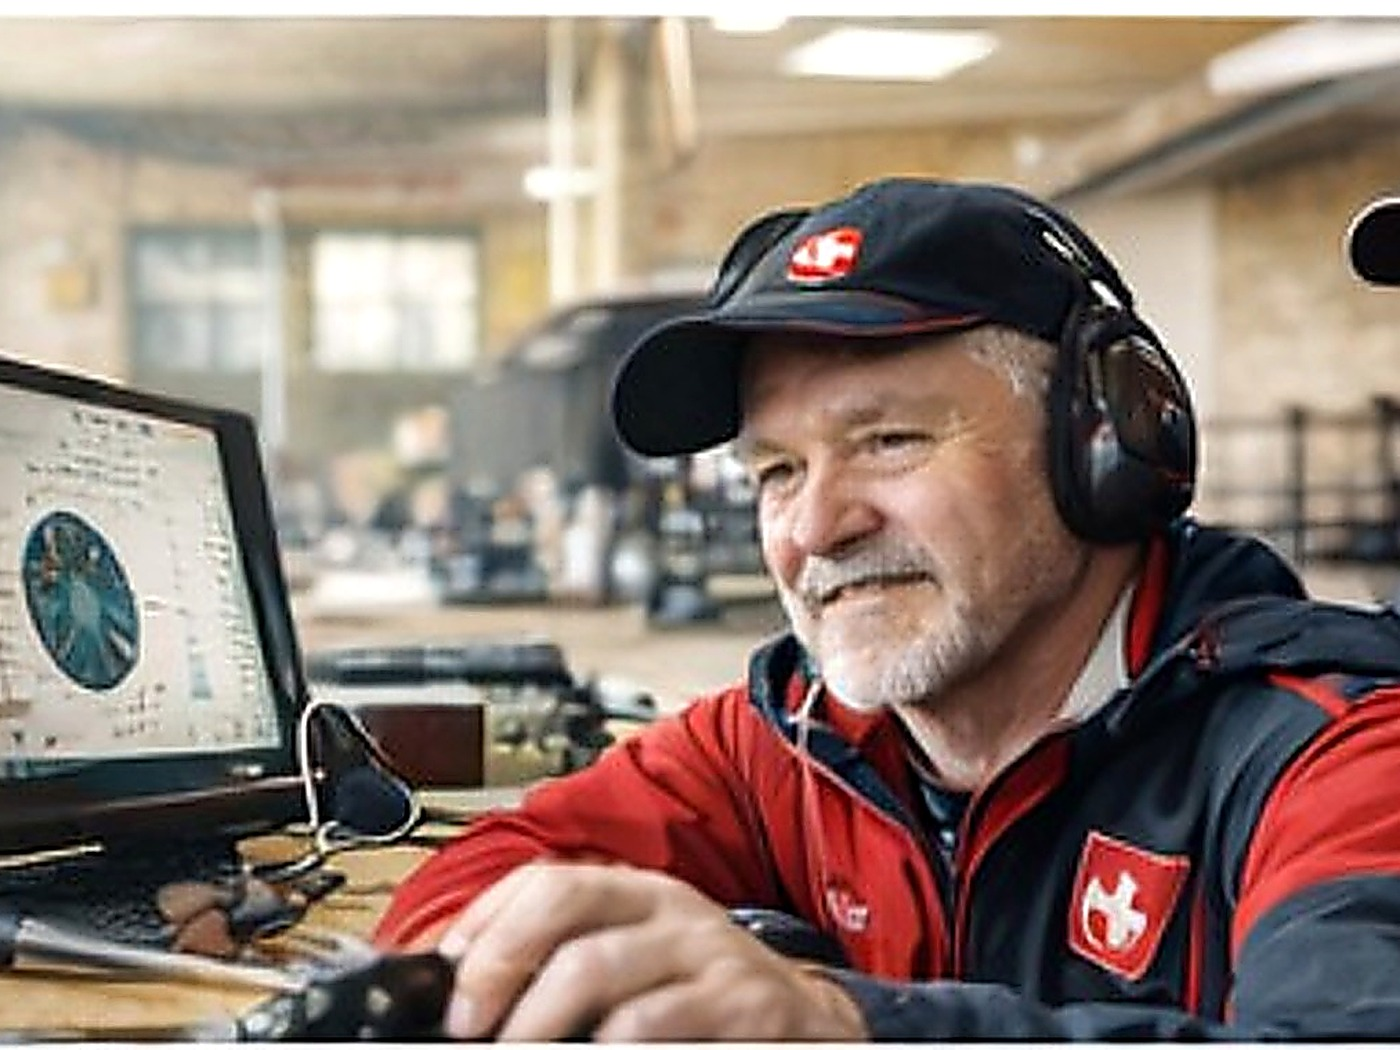
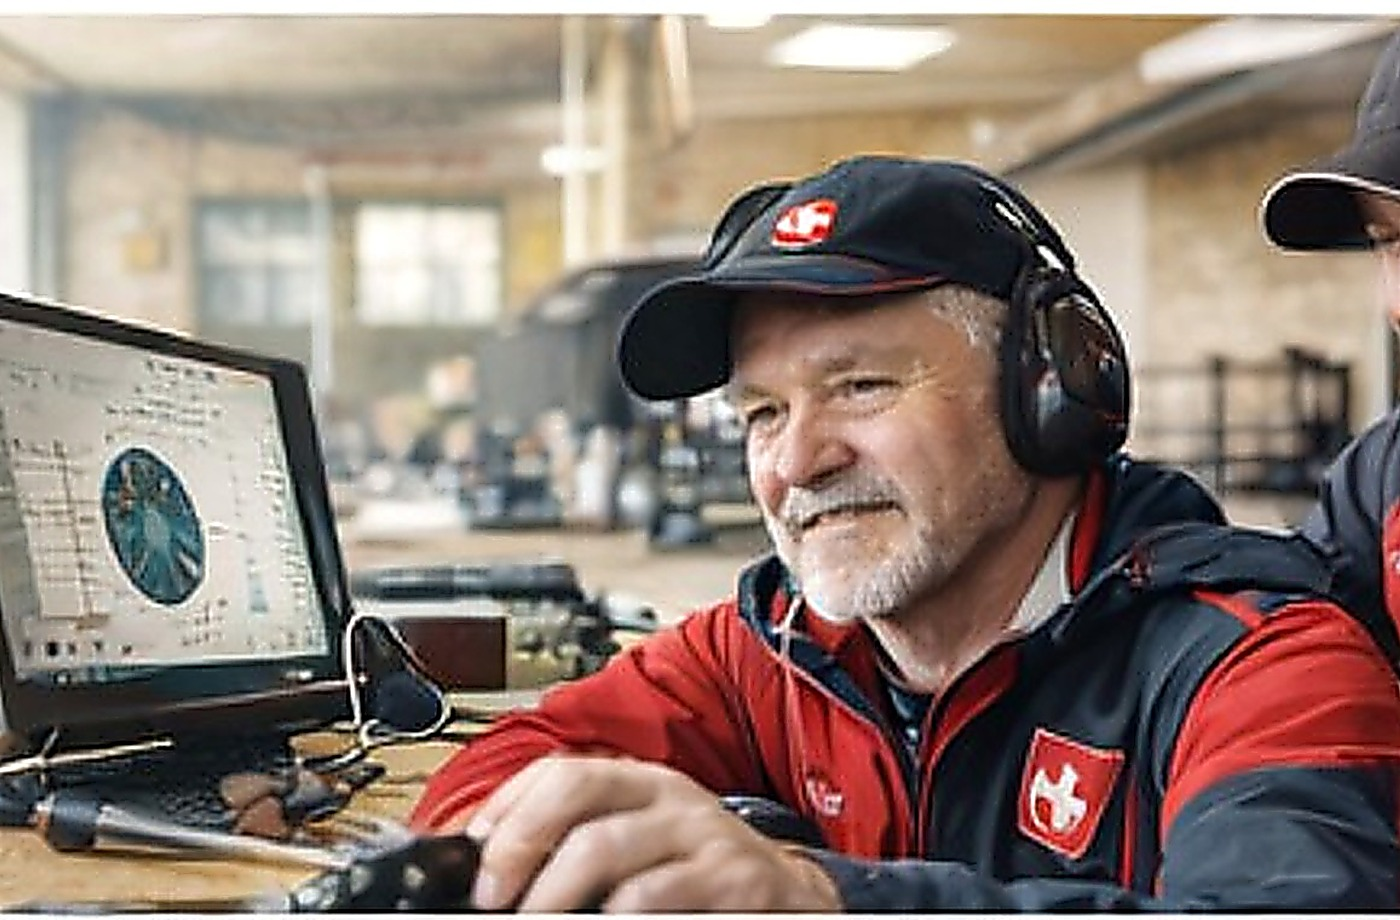
Add files via upload

diff --git a/public/styles.css b/public/styles.css
@@ -72,14 +72,42 @@ a { color: inherit; text-decoration: none; }
 .brand {
   display: inline-flex;
   align-items: center;
-  padding: 13px 22px;
+  gap: 12px;
+  padding: 12px 18px;
   border-radius: 999px;
   background: linear-gradient(180deg, rgba(255,255,255,0.96), rgba(250,247,242,0.95));
   box-shadow: 0 10px 24px rgba(20, 27, 39, 0.08);
-  font-size: 1.04rem;
-  font-weight: 900;
-  letter-spacing: -0.02em;
   white-space: nowrap;
+}
+.brand-complete {
+  min-width: 0;
+}
+.brand-mark {
+  width: 52px;
+  height: 52px;
+  object-fit: contain;
+  flex: 0 0 auto;
+}
+.brand-copy {
+  display: flex;
+  flex-direction: column;
+  min-width: 0;
+}
+.brand-copy strong {
+  font-size: 1.1rem;
+  font-weight: 900;
+  letter-spacing: -0.03em;
+}
+.brand-copy small {
+  margin-top: 2px;
+  color: var(--muted);
+  font-size: 0.78rem;
+  font-weight: 700;
+  letter-spacing: 0.01em;
+}
+.brand-logo img {
+  height: 30px;
+  width: auto;
 }
 .nav-links {
   display: flex;
@@ -127,7 +155,7 @@ a { color: inherit; text-decoration: none; }
 .hero-media {
   height: clamp(620px, 70vw, 820px);
   min-height: 620px;
-  background: url('assets/hero.jpg') center 36% / cover no-repeat;
+  background: url('assets/hero.jpg') center 44% / cover no-repeat;
   position: relative;
 }
 .hero-media::before {
@@ -265,13 +293,12 @@ a { color: inherit; text-decoration: none; }
 }
 .card-image {
   width: 100%;
-  aspect-ratio: 4 / 3;
-  min-height: 300px;
+  height: 320px;
   object-fit: cover;
-  object-position: center center;
+  object-position: center 50%;
   background: #e9e6e1;
 }
-.tall-image { object-position: center 40%; }
+.tall-image { object-position: center 38%; }
 .card-body { padding: 28px; }
 .module-label {
   display: inline-flex;
@@ -345,22 +372,17 @@ a { color: inherit; text-decoration: none; }
 }
 .figure-clean img {
   aspect-ratio: 16 / 10;
-  object-position: center 48%;
+  object-position: center 50%;
 }
 .figure-wide img {
   aspect-ratio: 16 / 9;
-  object-position: center 48%;
-}
-.image-only {
-  overflow: hidden;
-}
-.image-only img {
-  display: block;
+  object-position: center 50%;
 }
 .figure-card figcaption {
   padding: 14px 18px 18px;
   color: var(--muted);
   font-size: 0.96rem;
+  background: rgba(255,255,255,0.9);
 }
 .discipline-grid {
   display: grid;
@@ -512,10 +534,9 @@ a { color: inherit; text-decoration: none; }
   .navbar {
     width: calc(100% - 20px);
     margin-top: 10px;
-    padding: 8px 8px;
   }
   .hero {
-    margin-top: -92px;
+    margin-top: -104px;
   }
   .hero-card-inner {
     width: calc(100% - 20px);
@@ -535,41 +556,24 @@ a { color: inherit; text-decoration: none; }
     gap: 8px;
   }
   .nav-pill { display: none; }
-  .card-image {
-    aspect-ratio: 4 / 3;
-    min-height: 240px;
-  }
-  .figure-clean img,
-  .figure-wide img {
-    aspect-ratio: 4 / 3;
-  }
-  .admin-layout .image-only {
-    order: -1;
-  }
+  .card-image { height: 230px; }
 }
 
 @media (max-width: 560px) {
-  .brand { font-size: 0.92rem; padding: 10px 14px; }
-  .brand-logo img { height: 22px; width: auto; }
+  .brand { font-size: 0.94rem; padding: 11px 16px; }
   .btn, .secondary-btn { width: 100%; }
   .actions { flex-direction: column; }
-  .hero-media { min-height: 500px; }
+  .hero-media { min-height: 520px; }
   .hero-card { bottom: 18px; }
-  .hero h1 { font-size: 2.35rem; }
+  .hero h1 { font-size: 2.5rem; }
   .section-headline h2,
   .split-layout h2,
   .cta-banner h2,
-  .page-hero h1 { font-size: 1.92rem; }
+  .page-hero h1 { font-size: 2rem; }
   .card-body,
   .pricing-shell,
   .price-card,
   .cta-banner { padding: 20px; }
-  .module-card h3 {
-    font-size: 1.78rem;
-  }
-  .card-image {
-    min-height: 250px;
-  }
 }
 
 
@@ -818,71 +822,8 @@ body strong { color: var(--text); }
 .brand-signature { margin-top: 28px; display:flex; justify-content:center; }
 .brand-signature img { width:min(620px, 100%); height:auto; }
 @media (max-width: 560px){ .brand-logo img{ height:34px; } .brand-logo{ padding:10px 14px; } }
-.brand-logo img{height:32px;width:auto;display:block}
-.card-image{width:100%;height:300px;object-fit:cover;object-position:center center;background:#ddd}
-.tall-image{height:300px}
-.figure-card.image-only figcaption{display:none}
-.figure-clean.image-only img,.admin-visual.image-only img{height:100%;width:100%;object-fit:cover;object-position:center}
-.figure-clean{min-height:420px;overflow:hidden}
-.admin-visual{min-height:420px;overflow:hidden}
-.brand-signature img{max-width:min(760px,100%);margin:0 auto}
-@media (max-width: 980px){.card-image,.tall-image{height:260px}.figure-clean,.admin-visual{min-height:320px}}
 
-.customer-grid {
-  display:grid;
-  grid-template-columns: 1.1fr 0.9fr;
-  gap: 20px;
-}
-.form-card {
-  padding: 24px;
-}
-.kunden-form {
-  display:grid;
-  gap: 14px;
-}
-.kunden-form .two-cols {
-  display:grid;
-  grid-template-columns: 1fr 1fr;
-  gap: 14px;
-}
-.kunden-form label {
-  display:grid;
-  gap: 8px;
-}
-.kunden-form input,
-.kunden-form textarea,
-.kunden-form select {
-  width:100%;
-  border-radius: 16px;
-  border: 1px solid rgba(28,35,49,0.12);
-  background: rgba(255,255,255,0.95);
-  padding: 13px 15px;
-  font: inherit;
-  color: var(--text);
-}
-.small-note { color: var(--muted); font-size: 0.92rem; line-height: 1.6; }
-.invoice-list { display:grid; gap: 12px; margin-top: 16px; }
-.invoice-item {
-  display:flex;
-  justify-content:space-between;
-  gap: 16px;
-  padding: 16px 18px;
-  border-radius: 20px;
-  background:white;
-  border: 1px solid var(--line);
-}
-.invoice-meta strong { display:block; margin-bottom: 4px; }
-.invoice-meta span { color: var(--muted); }
-.invoice-action { text-align:right; min-width: 110px; }
-.content-grid {
-  display:grid;
-  grid-template-columns: 1fr 1fr;
-  gap: 18px;
-}
-@media (max-width: 820px) {
-  .customer-grid,
-  .content-grid,
-  .kunden-form .two-cols {
-    grid-template-columns: 1fr;
-  }
+@media (max-width: 980px) {
+  .brand-copy small { display: none; }
+  .brand-mark { width: 42px; height: 42px; }
 }

diff --git a/public/index.html b/public/index.html
@@ -12,7 +12,13 @@
 <body>
   <header class="site-header">
     <nav class="navbar">
-      <a class="brand brand-logo" href="#top"><img src="assets/logo-nav.png" alt="mySwissTarget.ch"></a>
+      <a class="brand brand-complete" href="#top">
+        <img class="brand-mark" src="assets/logo-mark.png" alt="mySwissTarget Logo">
+        <span class="brand-copy">
+          <strong>mySwissTarget.ch</strong>
+          <small>Die Plattform für den Schweizer Schiesssport</small>
+        </span>
+      </a>
       <div class="nav-links">
         <a class="nav-pill" href="#module">Module</a>
         <a class="nav-pill" href="#disziplinen">Disziplinen</a>
@@ -31,11 +37,11 @@
       <div class="hero-card">
         <div class="hero-card-inner">
           <span class="eyebrow">3 Module. 1 Login. 1 Plattform.</span>
-          <h1>Die Schweizer Plattform für den digitalen Schiesssport-Alltag.</h1>
+          <h1>Die moderne Schweizer Plattform für Schiessverwaltung.</h1>
           <p>
-            SwissTarget verbindet <strong>Anlass</strong>, <strong>Feldschiessen / Obligatorisches Schiessen</strong>
-            und <strong>Verein intern</strong> in einer einzigen Plattform – entwickelt für Schweizer Vereine,
-            Schützenhäuser, Schiessverwalter und Organisatoren, die heute klarer, schneller und moderner arbeiten wollen.
+            mySwissTarget.ch verbindet <strong>Anlass</strong>, <strong>Feldschiessen / Obligatorisches Schiessen</strong>
+            und <strong>Verein intern</strong> in einer einzigen Plattform – gebaut für Schweizer Vereine,
+            Schützenhäuser, Schiessverwalter und Organisatoren, die ihren Alltag digital, klar und professionell führen wollen.
           </p>
           <div class="actions">
             <a class="btn" href="bestellung.html">Jetzt bestellen</a>
@@ -78,7 +84,7 @@
           </article>
 
           <article class="module-card">
-            <img class="card-image" src="assets/module-op.jpg" alt="Pistolenschütze im Schweizer Schiesssport">
+            <img class="card-image" src="assets/module-feldschiessen.jpg" alt="Pistolenschütze im Schweizer Schiesssport">
             <div class="card-body">
               <div class="module-label">Modul 2</div>
               <h3>Feldschiessen /<br>Obligatorisches Schiessen</h3>
@@ -124,8 +130,9 @@
               <div class="discipline-card"><strong>Luftgewehr / Luftpistole</strong><span>G10 und P10 im selben System mitdenken</span></div>
             </div>
           </div>
-          <figure class="figure-card figure-clean image-only">
-            <img src="assets/nature-figure.jpg" alt="Schweizer Natur und Schiesssport mit Bergkulisse">
+          <figure class="figure-card figure-clean">
+            <img src="assets/hero.jpg" alt="Schiesssport in Schweizer Natur mit Bergkulisse">
+            <figcaption>Realer Schweizer Schiesssport, echte Vereinsarbeit und eine Plattform, die dafür entwickelt wurde.</figcaption>
           </figure>
         </div>
       </div>
@@ -135,7 +142,7 @@
       <div class="container">
         <div class="split-layout align-center">
           <figure class="figure-card figure-wide">
-            <img src="assets/sectionPlatform.jpg" alt="SwissTarget im Einsatz mit Resultatübersicht und Vereinsarbeit">
+            <img src="assets/section-band.jpg" alt="SwissTarget im Einsatz mit Resultatübersicht und Vereinsarbeit">
           </figure>
           <div>
             <span class="eyebrow">Verkaufsstark und praxisnah</span>
@@ -251,13 +258,13 @@
               <div class="admin-info-card"><strong>Verwalten</strong><span>Kunden, Rechnungen, Abos und Supportfälle in einem klaren Bereich.</span></div>
             </div>
             <div class="actions">
-              <a class="secondary-btn" href="adminbereich.html">Adminbereich öffnen</a>
-              <a class="secondary-btn" href="kundenbereich.html">Kundenbereich öffnen</a>
+              <a class="secondary-btn" href="adminbereich.html">Adminbereich als Demo ansehen</a>
               <a class="btn" href="bestellung.html">Bestellformular öffnen</a>
             </div>
           </div>
-          <figure class="figure-card figure-wide admin-visual image-only">
-            <img src="assets/team-admin.jpg" alt="SwissTarget im Einsatz mit Team und Resultatübersicht">
+          <figure class="figure-card figure-wide admin-visual">
+            <img src="assets/admin-visual.jpg" alt="SwissTarget im Einsatz mit mehreren Personen und Laptop im Schützenhaus">
+            <figcaption>Frontend-Demo für Kunden, Abos, Zahlungen und Freischaltungen.</figcaption>
           </figure>
         </div>
       </div>

diff --git a/public/adminbereich.html b/public/adminbereich.html
@@ -10,7 +10,13 @@
 <body>
   <header class="site-header page-header-solid">
     <nav class="navbar">
-      <a class="brand brand-logo" href="index.html"><img src="assets/logo-nav.png" alt="mySwissTarget.ch"></a>
+      <a class="brand brand-complete" href="index.html">
+      <img class="brand-mark" src="assets/logo-mark.png" alt="mySwissTarget Logo">
+      <span class="brand-copy">
+        <strong>mySwissTarget.ch</strong>
+        <small>Die Plattform für den Schweizer Schiesssport</small>
+      </span>
+    </a>
       <div class="nav-links">
         <a class="nav-pill" href="index.html#module">Module</a>
         <a class="nav-pill" href="index.html#preise">Preise</a>
@@ -116,34 +122,6 @@
               </tr>
             </tbody>
           </table>
-        </div>
-      </div>
-    </section>
-
-
-    <section class="section">
-      <div class="container">
-        <div class="content-grid">
-          <div class="demo-panel">
-            <h3>Website-Inhalte bearbeiten</h3>
-            <p>Hero-Titel, Verkaufstexte, Preise, FAQ und Buttons können in einem klaren Bereich gepflegt werden – ohne direkt im Code arbeiten zu müssen.</p>
-            <ul class="clean-list">
-              <li>Hero-Titel und Untertitel ändern</li>
-              <li>Preisblöcke und FAQ aktualisieren</li>
-              <li>Startseitenbilder austauschen</li>
-              <li>CTA-Buttons und Ziel-Links pflegen</li>
-            </ul>
-          </div>
-          <div class="demo-panel">
-            <h3>Support &amp; Freischaltung</h3>
-            <p>Admin sieht Testphasen, offene Zahlungen, Supportfälle und kann Vereine bei Bedarf manuell freischalten oder pausieren.</p>
-            <ul class="clean-list">
-              <li>Probeabo verlängern</li>
-              <li>Rechnung als bezahlt markieren</li>
-              <li>Freischaltung manuell setzen</li>
-              <li>Support-Notizen hinterlegen</li>
-            </ul>
-          </div>
         </div>
       </div>
     </section>

diff --git a/public/bestellung.html b/public/bestellung.html
@@ -12,7 +12,13 @@
 <body>
   <header class="site-header page-header-solid">
     <nav class="navbar">
-      <a class="brand brand-logo" href="index.html"><img src="assets/logo-nav.png" alt="mySwissTarget.ch"></a>
+      <a class="brand brand-complete" href="index.html">
+      <img class="brand-mark" src="assets/logo-mark.png" alt="mySwissTarget Logo">
+      <span class="brand-copy">
+        <strong>mySwissTarget.ch</strong>
+        <small>Die Plattform für den Schweizer Schiesssport</small>
+      </span>
+    </a>
       <div class="nav-links">
         <a class="nav-pill" href="index.html#module">Module</a>
         <a class="nav-pill" href="index.html#preise">Preise</a>
@@ -41,7 +47,7 @@
           </div>
         </div>
         <div class="page-panel order-hero-panel">
-          <img src="assets/nature_team.jpg" alt="SwissTarget im Schweizer Schiesssport mit Natur und Teamarbeit">
+          <img src="assets/order-hero.jpg" alt="SwissTarget im Schweizer Schiesssport mit Natur und Teamarbeit">
         </div>
       </div>
     </section>
